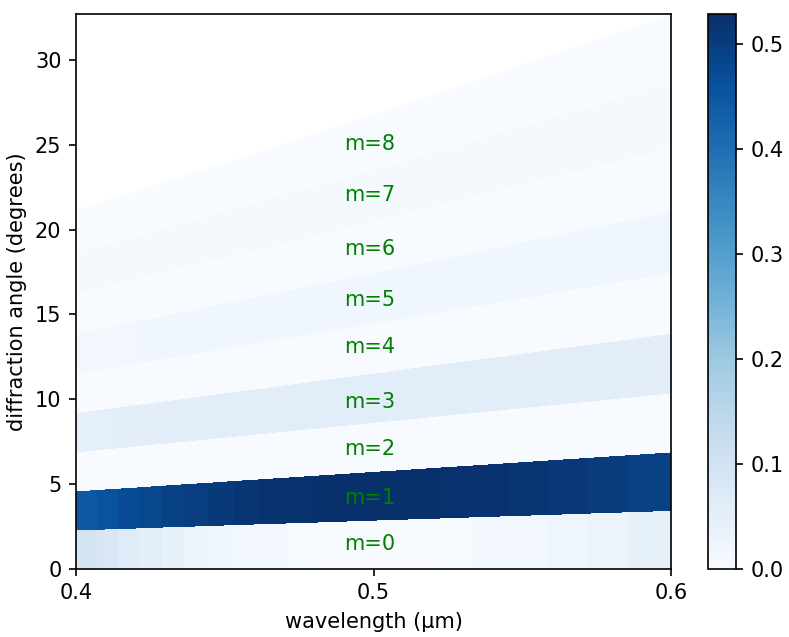
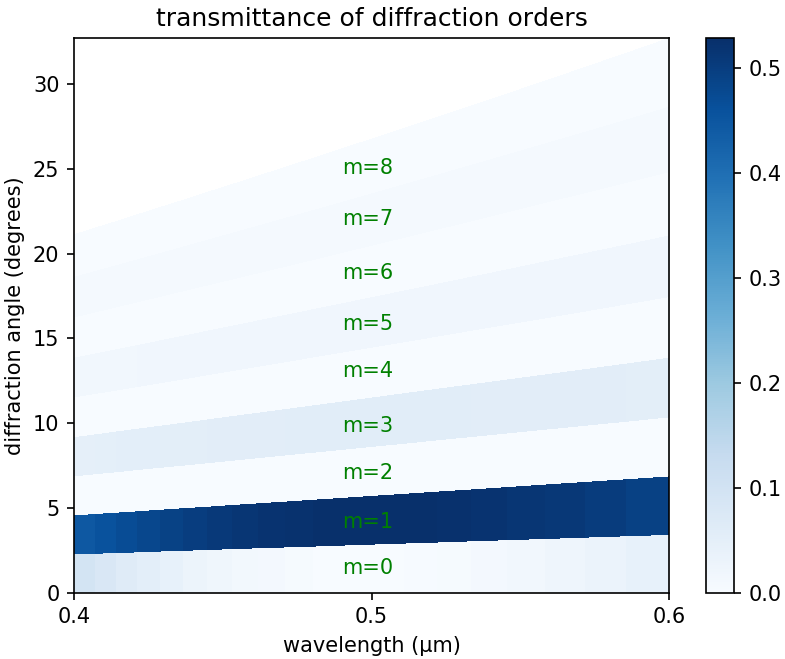
update docs

diff --git a/python/examples/mode-decomposition.py b/python/examples/mode-decomposition.py
@@ -16,14 +16,14 @@ def main(args):
     dair = 3.0
     dpml = 5.0
 
-    sx = dpml + Lw + Lt + Lw + dpml
-    sy = dpml + dair + w2 + dair + dpml
+    sx = dpml+Lw+Lt+Lw+dpml
+    sy = dpml+dair+w2+dair+dpml
     cell_size = mp.Vector3(sx,sy,0)
 
-    prism_x = sx + 1
-    half_w1 = 0.5 * w1
-    half_w2 = 0.5 * w2
-    half_Lt = 0.5 * Lt
+    prism_x = sx+1
+    half_w1 = 0.5*w1
+    half_w2 = 0.5*w2
+    half_Lt = 0.5*Lt
 
     if Lt > 0:
         vertices = [mp.Vector3(-prism_x, half_w1),
@@ -42,7 +42,7 @@ def main(args):
 
     geometry = [mp.Prism(vertices, height=mp.inf, material=Si)]
 
-    boundary_layers = [ mp.PML(dpml) ]
+    boundary_layers = [mp.PML(dpml)]
 
     # mode wavelength
     lcen = 6.67
@@ -50,12 +50,12 @@ def main(args):
     # mode frequency
     fcen = 1/lcen
 
-    sources = [ mp.EigenModeSource(src=mp.GaussianSource(fcen, fwidth=0.2*fcen),
-                                   component=mp.Ez,
-                                   size=mp.Vector3(0,sy-2*dpml,0),
-                                   center=mp.Vector3(-0.5*sx+dpml+0.2*Lw,0,0),
-                                   eig_match_freq=True,
-                                   eig_parity=mp.ODD_Z+mp.EVEN_Y) ]
+    sources = [mp.EigenModeSource(src=mp.GaussianSource(fcen, fwidth=0.2*fcen),
+                                  component=mp.Ez,
+                                  size=mp.Vector3(0,sy-2*dpml,0),
+                                  center=mp.Vector3(-0.5*sx+dpml+0.2*Lw,0,0),
+                                  eig_match_freq=True,
+                                  eig_parity=mp.ODD_Z+mp.EVEN_Y)]
 
     sim = mp.Simulation(resolution=resolution,
                         cell_size=cell_size,
@@ -64,17 +64,17 @@ def main(args):
                         sources=sources)
 
     xm = -0.5*sx+dpml+0.5*Lw  # x-coordinate of monitor
-    mode_monitor = sim.add_eigenmode(fcen, 0, 1, mp.FluxRegion(center=mp.Vector3(xm,0), size=mp.Vector3(0,sy-2*dpml)))
+    mode_monitor = sim.add_eigenmode(fcen, 0, 1, mp.FluxRegion(center=mp.Vector3(xm,0,0), size=mp.Vector3(0,sy-2*dpml,0)))
 
     sim.run(until_after_sources=mp.stop_when_fields_decayed(50, mp.Ez, mp.Vector3(xm,0,0), 1e-9))
 
-    coeffs, vgrp, kpoints = sim.get_eigenmode_coefficients(mode_monitor, [1])
+    coeffs, vgrp, kpoints = sim.get_eigenmode_coefficients(mode_monitor, [1], eig_parity=mp.ODD_Z+mp.EVEN_Y)
 
     print("mode:, {}, {:.8f}, {:.8f}".format(Lt,abs(coeffs[0,0,0])**2,abs(coeffs[0,0,1])**2))
 
 if __name__ == '__main__':
     parser = argparse.ArgumentParser()
     parser.add_argument('-Lt', type=float, default=3.0, help='taper length (default: 3.0)')
-    parser.add_argument('-res', type=int, default=30, help='resolution (default: 30)')
+    parser.add_argument('-res', type=int, default=60, help='resolution (default: 60)')
     args = parser.parse_args()
     main(args)

diff --git a/python/examples/binary_grating.py b/python/examples/binary_grating.py
@@ -16,7 +16,7 @@ sx = dpml+dsub+gh+dpad+dpml
 sy = gp
 
 cell_size = mp.Vector3(sx,sy,0)
-pml_layers = [ mp.PML(thickness=dpml,direction=mp.X) ]
+pml_layers = [mp.PML(thickness=dpml,direction=mp.X)]
 
 wvl_min = 0.4           # min wavelength
 wvl_max = 0.6           # max wavelength
@@ -26,7 +26,7 @@ fcen = 0.5*(fmin+fmax)  # center frequency
 df = fmax-fmin          # frequency width
 
 src_pos = -0.5*sx+dpml+0.5*dsub
-sources = [ mp.Source(mp.GaussianSource(fcen, fwidth=df), component=mp.Ez, center=mp.Vector3(src_pos,0,0), size=mp.Vector3(0,sy,0)) ]
+sources = [mp.Source(mp.GaussianSource(fcen, fwidth=df), component=mp.Ez, center=mp.Vector3(src_pos,0,0), size=mp.Vector3(0,sy,0))]
 
 k_point = mp.Vector3(0,0,0)
 
@@ -48,8 +48,8 @@ sim.reset_meep()
 
 glass = mp.Medium(index=1.5)
 
-geometry = [ mp.Block(material=glass, size=mp.Vector3(dpml+dsub,mp.inf,mp.inf), center=mp.Vector3(-0.5*sx+0.5*(dpml+dsub),0,0)),
-             mp.Block(material=glass, size=mp.Vector3(gh,gdc*gp,mp.inf), center=mp.Vector3(-0.5*sx+dpml+dsub+0.5*gh,0,0)) ]
+geometry = [mp.Block(material=glass, size=mp.Vector3(dpml+dsub,mp.inf,mp.inf), center=mp.Vector3(-0.5*sx+0.5*(dpml+dsub),0,0)),
+            mp.Block(material=glass, size=mp.Vector3(gh,gdc*gp,mp.inf), center=mp.Vector3(-0.5*sx+dpml+dsub+0.5*gh,0,0))]
 
 sim = mp.Simulation(resolution=resolution,
                     cell_size=cell_size,

diff --git a/doc/docs/Python_Tutorials/Mode_Decomposition.md b/doc/docs/Python_Tutorials/Mode_Decomposition.md
@@ -15,9 +15,9 @@ This example involves computing the reflectance &mdash; the fraction of the refl
 ![](../images/waveguide-taper.png)
 </center>
 
-The structure, which can be viewed as a [two-port network](https://en.wikipedia.org/wiki/Two-port_network), consists of a single-mode waveguide of width 1 μm (`w1`) coupled to a second waveguide of width 2 μm (`w2`) via a linearly-sloped taper (length `Lt`). The structure is homogeneous with ε=12 in vacuum. PML absorbing boundaries surround the computational cell. An eigenmode source with E<sub>z</sub> polarization is used to launch the fundamental mode at a wavelength of 6.67 μm. There is an eigenmode-expansion monitor placed at the midpoint of the first waveguide. This is a line monitor which extends beyond the waveguide in order to capture the entire mode profile including its evanescent tails. The Fourier-transformed fields along this line monitor are used to compute the basis coefficients of the harmonic modes which are computed separately via the eigenmode solver MPB. The technical details are described in [Mode Decomposition](../Mode_Decomposition). The squared magnitude of the mode coefficient is equivalent to the power in the given eigenmode. We could have also placed a line monitor in the second waveguide to compute the transmittance. The ratio of the complex mode coefficients can be used to compute the [S parameters](https://en.wikipedia.org/wiki/Scattering_parameters).
+The structure, which can be viewed as a [two-port network](https://en.wikipedia.org/wiki/Two-port_network), consists of a single-mode waveguide of width `w1` (1 μm)  coupled to a second waveguide of width `w2` (2 μm) via a linearly-sloped taper of length `Lt`. The structure is homogeneous with ε=12 in vacuum. PML absorbing boundaries surround the computational cell. An eigenmode source with E<sub>z</sub> polarization is used to launch the fundamental mode at a wavelength of 6.67 μm. There is an eigenmode-expansion monitor placed at the midpoint of the first waveguide. This is a line monitor which extends beyond the waveguide in order to capture the entire mode profile including its evanescent tails. The Fourier-transformed fields along this line monitor are used to compute the basis coefficients of the harmonic modes which are computed separately via the eigenmode solver MPB. The technical details are described in [Mode Decomposition](../Mode_Decomposition). The squared magnitude of the mode coefficient is equivalent to the power in the given eigenmode. We could have also placed a line monitor in the second waveguide to compute the transmittance. The ratio of the complex mode coefficients can be used to compute the [S parameters](https://en.wikipedia.org/wiki/Scattering_parameters); in this example, we compute |S<sub>11</sub>|<sup>2</sup>.
 
-Note that even though the structure has mirror symmetry in the $y$ direction, we cannot exploit this feature to reduce the computation size by a factor of two as symmetries are not yet supported for the mode-decomposition feature. For comparison, another approach for computing the reflectance involves the `dft_flux` which is demonstrated in [Tutorial/Basics](Basics/#angular-reflectance-spectrum-of-a-planar-interface).
+Note that even though the structure has mirror symmetry in the $y$ direction, we cannot exploit this feature to reduce the computation size by a factor of two as symmetries are not yet supported for the mode-decomposition feature. For comparison, another approach for computing the reflectance involves the [flux](../Python_User_Interface/#flux-spectra) which is demonstrated in [Tutorial/Basics](Basics/#angular-reflectance-spectrum-of-a-planar-interface).
 
 At the end of the simulation, the squared magnitude of the mode coefficients for the forward- and backward-propagating fundamental mode along with the taper length are displayed. The simulation script is shown below and in [mode-decomposition.py](https://github.com/stevengj/meep/blob/master/python/examples/mode-decomposition.py).
 
@@ -44,10 +44,10 @@ def main(args):
     sy = dpml+dair+w2+dair+dpml
     cell_size = mp.Vector3(sx,sy,0)
 
-    prism_x = sx + 1
-    half_w1 = 0.5 * w1
-    half_w2 = 0.5 * w2
-    half_Lt = 0.5 * Lt
+    prism_x = sx+1
+    half_w1 = 0.5*w1
+    half_w2 = 0.5*w2
+    half_Lt = 0.5*Lt
 
     if Lt > 0:
         vertices = [mp.Vector3(-prism_x, half_w1),
@@ -66,7 +66,7 @@ def main(args):
 
     geometry = [mp.Prism(vertices, height=mp.inf, material=Si)]
 
-    boundary_layers = [ mp.PML(dpml) ]
+    boundary_layers = [mp.PML(dpml)]
 
     # mode wavelength
     lcen = 6.67
@@ -74,12 +74,12 @@ def main(args):
     # mode frequency
     fcen = 1/lcen
     
-    sources = [ mp.EigenModeSource(src=mp.GaussianSource(fcen, fwidth=0.2*fcen),
-                                   component=mp.Ez,
-                                   size=mp.Vector3(0,sy-2*dpml,0),
-                                   center=mp.Vector3(-0.5*sx+dpml+0.2*Lw,0,0),
-                                   eig_match_freq=True,
-                                   eig_parity=mp.ODD_Z+mp.EVEN_Y) ]
+    sources = [mp.EigenModeSource(src=mp.GaussianSource(fcen, fwidth=0.2*fcen),
+                                  component=mp.Ez,
+                                  size=mp.Vector3(0,sy-2*dpml,0),
+                                  center=mp.Vector3(-0.5*sx+dpml+0.2*Lw,0,0),
+                                  eig_match_freq=True,
+                                  eig_parity=mp.ODD_Z+mp.EVEN_Y)]
     
     sim = mp.Simulation(resolution=resolution,
                         cell_size=cell_size,
@@ -88,31 +88,31 @@ def main(args):
                         sources=sources)
 
     xm = -0.5*sx+dpml+0.5*Lw  # x-coordinate of monitor
-    mode_monitor = sim.add_eigenmode(fcen, 0, 1, mp.FluxRegion(center=mp.Vector3(xm,0), size=mp.Vector3(0,sy-2*dpml)))
+    mode_monitor = sim.add_eigenmode(fcen, 0, 1, mp.FluxRegion(center=mp.Vector3(xm,0,0), size=mp.Vector3(0,sy-2*dpml,0)))
     
     sim.run(until_after_sources=mp.stop_when_fields_decayed(50, mp.Ez, mp.Vector3(xm,0,0), 1e-9))
 
-    coeffs, vgrp, kpoints = sim.get_eigenmode_coefficients(mode_monitor, [1])    
+    coeffs, vgrp, kpoints = sim.get_eigenmode_coefficients(mode_monitor, [1], eig_parity=mp.ODD_Z+mp.EVEN_Y)    
     
     print("mode:, {}, {:.8f}, {:.8f}".format(Lt,abs(coeffs[0,0,0])**2,abs(coeffs[0,0,1])**2))
     
 if __name__ == '__main__':
     parser = argparse.ArgumentParser()
     parser.add_argument('-Lt', type=float, default=3.0, help='taper length (default: 3.0)')
-    parser.add_argument('-res', type=int, default=50, help='resolution (default: 50)')
+    parser.add_argument('-res', type=int, default=60, help='resolution (default: 60)')
     args = parser.parse_args()
     main(args)
 ```
 
-To investigate the scaling, we compute the reflectance for a range of taper lengths on a logarithmic scale: 1, 2, 4, 8, 16, 32, and 64 μm. A quadratic scaling of the reflectance with the taper length will appear as a straight line on a log-log plot. In order to obtain the incident power, we need a separate simulation with no waveguide taper and involving just the first waveguide. This is done by using a taper length of 0. We will use a parallel simulation with two processors to speed up the calculation. The bash script is shown below.
+To investigate the scaling, we compute the reflectance for five different taper lengths: 1, 2, 4, 8, and 16 μm. A quadratic scaling of the reflectance with the taper length appears as a straight line on a log-log plot. In order to obtain the incident power, we need a separate simulation with just the first waveguide. This is done by using a taper length of 0. We will use a parallel simulation with three processors to speed up the calculation. The bash script is shown below.
 
 ```sh
 #!/bin/bash
 
-mpirun -np 2 python -u mode-decomposition.py -Lt 0 |tee taper_data.out;
+mpirun -np 3 python -u mode-decomposition.py -Lt 0 |tee taper_data.out;
 
-for i in `seq 0 6`; do
-    mpirun -np 2 python -u mode-decomposition.py -Lt $((2**${i})) |tee -a taper_data.out;
+for i in `seq 0 4`; do
+    mpirun -np 3 python -u mode-decomposition.py -Lt $((2**${i})) |tee -a taper_data.out;
 done
 
 grep mode: taper_data.out |cut -d , -f2- > taper_data.dat
@@ -130,10 +130,10 @@ Rmeep = f[1:,2]/f[0,1]
 
 plt.figure(dpi=150)
 plt.loglog(Lt,Rmeep,'bo-',label='meep')
-plt.loglog(Lt,0.01/Lt**2,'k-',label=r'quadratic reference (1/Lt$^2$)')
+plt.loglog(Lt,0.005/Lt**2,'k-',label=r'quadratic reference (1/Lt$^2$)')
 plt.legend(loc='upper right')
 plt.xlabel('taper length Lt (μm)')
-plt.ylabel('reflectance')
+plt.ylabel(r'reflectance, $|S_{11}|^2$')
 plt.show()
 ```
 
@@ -169,7 +169,7 @@ sx = dpml+dsub+gh+dpad+dpml
 sy = gp
 
 cell_size = mp.Vector3(sx,sy,0)
-pml_layers = [ mp.PML(thickness=dpml,direction=mp.X) ]
+pml_layers = [mp.PML(thickness=dpml,direction=mp.X)]
 
 wvl_min = 0.4           # min wavelength
 wvl_max = 0.6           # max wavelength
@@ -179,7 +179,7 @@ fcen = 0.5*(fmin+fmax)  # center frequency
 df = fmax-fmin          # frequency width
 
 src_pos = -0.5*sx+dpml+0.5*dsub
-sources = [ mp.Source(mp.GaussianSource(fcen, fwidth=df), component=mp.Ez, center=mp.Vector3(src_pos,0,0), size=mp.Vector3(0,sy,0)) ]
+sources = [mp.Source(mp.GaussianSource(fcen, fwidth=df), component=mp.Ez, center=mp.Vector3(src_pos,0,0), size=mp.Vector3(0,sy,0))]
 
 k_point = mp.Vector3(0,0,0)
 
@@ -201,8 +201,8 @@ sim.reset_meep()
 
 glass = mp.Medium(index=1.5)
 
-geometry = [ mp.Block(material=glass, size=mp.Vector3(dpml+dsub,mp.inf,mp.inf), center=mp.Vector3(-0.5*sx+0.5*(dpml+dsub),0,0)),
-             mp.Block(material=glass, size=mp.Vector3(gh,gdc*gp,mp.inf), center=mp.Vector3(-0.5*sx+dpml+dsub+0.5*gh,0,0)) ]
+geometry = [mp.Block(material=glass, size=mp.Vector3(dpml+dsub,mp.inf,mp.inf), center=mp.Vector3(-0.5*sx+0.5*(dpml+dsub),0,0)),
+            mp.Block(material=glass, size=mp.Vector3(gh,gdc*gp,mp.inf), center=mp.Vector3(-0.5*sx+dpml+dsub+0.5*gh,0,0))]
 
 sim = mp.Simulation(resolution=resolution,
                     cell_size=cell_size,
@@ -269,17 +269,18 @@ plt.xlabel("wavelength (μm)")
 plt.ylabel("diffraction angle (degrees)")
 plt.xticks([t for t in np.arange(0.4,0.7,0.1)])
 plt.yticks([t for t in range(0,35,5)])
+plt.title("transmittance of diffraction orders")
 cbar = plt.colorbar()
 cbar.set_ticks([t for t in np.arange(0,0.6,0.1)])
 cbar.set_ticklabels(["{:.1f}".format(t) for t in np.arange(0,0.6,0.1)])
 plt.show()
 ```
 
-Each diffraction order corresponds to a single angle. In the figure below, this angle is represented by the *lower* boundary of each labeled region. For example, the m=0 order has a diffraction angle of 0 degrees at all wavelengths. The representation of the diffraction orders as finite angular regions is an artifact of matplotlib's [pcolormesh](https://matplotlib.org/api/_as_gen/matplotlib.pyplot.pcolormesh.html) routine. Note that only the non-negative diffraction orders are shown as these are equivalent to the negative orders due to the symmetry of the source and the structure.
+Each diffraction order corresponds to a single angle. In the figure below, this angle is represented by the *lower* boundary of each labeled region. For example, the m=0 order has a diffraction angle of 0 degrees at all wavelengths. The representation of the diffraction orders as finite angular regions is an artifact of matplotlib's [pcolormesh](https://matplotlib.org/api/_as_gen/matplotlib.pyplot.pcolormesh.html) routine. Note that only the positive diffraction orders are shown as these are equivalent to the negative orders due to the symmetry of the source and the structure.
 
 The transmittance of each diffraction order should ideally be a constant. The slight wavelength dependence shown in the figure is a numerical artifact which can be mitigated by (1) increasing the resolution or (2) time-stepping for a longer duration to ensure that the fields have sufficiently decayed away.
 
-The diffraction orders/modes are a finite set of propagating planewaves. The wavevector k<sub>x</sub> of these modes can be computed analytically: for a frequency of ω (in c=1 units), these propagating modes are the *real* solutions of sqrt(ω²n² - (k<sub>y</sub>+2πm/Λ)²) where m is the diffraction order (an integer) and Λ is the periodicity of the grating. In this example, n=1, k<sub>y</sub>=0, and Λ=10 μm. Thus, as an example, at a wavelength of 0.5 μm there are 20 diffraction orders. The wavevector k<sub>x</sub> is used to compute the angle of the diffraction order as cos<sup>-1</sup>(k<sub>x</sub>/ω). Evanescent modes, those with an *imaginary* k<sub>x</sub>, exist but carry no power. Note that currently Meep does not compute the number of propagating modes for you. If the mode number passed to `get_eigenmode_coefficients` is larger than the number of propagating modes at a given frequency/wavelength, MPB's Newton solver will fail to converge and will return zero for the mode coefficient. It is therefore a good idea to know beforehand the number of propagating modes.
+The diffraction orders/modes are a finite set of propagating planewaves. The wavevector k<sub>x</sub> of these modes can be computed analytically: for a frequency of ω (in c=1 units), these propagating modes are the *real* solutions of sqrt(ω²n² - (k<sub>y</sub>+2πm/Λ)²) where m is the diffraction order (an integer) and Λ is the periodicity of the grating. In this example, n=1, k<sub>y</sub>=0, and Λ=10 μm. Thus, as an example, at a wavelength of 0.5 μm there are 20 diffraction orders (though we only computed the first ten). The wavevector k<sub>x</sub> is used to compute the angle of the diffraction order as cos<sup>-1</sup>(k<sub>x</sub>/ω). Evanescent modes, those with an *imaginary* k<sub>x</sub>, exist for |m|>20 but these modes carry no power. Note that currently Meep does not compute the number of propagating modes for you. If the mode number passed to `get_eigenmode_coefficients` is larger than the number of propagating modes at a given frequency/wavelength, MPB's Newton solver will fail to converge and will return zero for the mode coefficient. It is therefore a good idea to know beforehand the number of propagating modes.
 
 <center>
 ![](../images/grating_diffraction_spectra.png)

diff --git a/doc/docs/Python_Tutorials/Basics.md b/doc/docs/Python_Tutorials/Basics.md
@@ -2,7 +2,7 @@
 # Python Tutorial
 ---
 
-We'll go through several examples using the Python interface that demonstrate the process of computing fields, transmittance/reflectance spectra, and resonant modes. All of the examples here are 1d or 2d calculations, simply because they are quicker than 3d and they illustrate most of the essential features. For more advanced functionality involving 3d computations, see the [Simpetus projects page](http://www.simpetus.com/projects.html).
+We'll go through several examples using the Python interface that demonstrate the process of computing fields, transmittance/reflectance spectra, and resonant modes. All of the examples here are 1d or 2d calculations, simply because they are quicker than 3d and they illustrate most of the essential features. For more advanced functionality involving 3d computations and technology applications, see the [Simpetus projects page](http://www.simpetus.com/projects.html).
 
 [TOC]
 
@@ -59,7 +59,7 @@ sources = [mp.Source(mp.ContinuousSource(frequency=0.15),
                      center=mp.Vector3(-7,0))]
 ```
 
-We gave the source a frequency of 0.15, and specified a [`ContinuousSource`](../Python_User_Interface/#continuoussource) which is just a fixed-frequency sinusoid $\exp(-i \omega t)$ that by default is turned on at $t=0$. Recall that, in [Meep units](../Introduction.md#units-in-meep), frequency is specified in units of 2πc, which is equivalent to the inverse of the vacuum wavelength. Thus, 0.15 corresponds to a vacuum wavelength of about 1/0.15=6.67 μm, or a wavelength of about 2 μm in the ε=12 material &mdash; thus, our waveguide is half a wavelength wide, which should hopefully make it single mode. In fact, the cutoff for single-mode behavior in this waveguide is analytically solvable, and corresponds to a frequency of 1/2√11 or roughly 0.15076. Note also that to specify a $J_z$, we specify a component `Ez` (e.g., if we wanted a magnetic current, we would specify `Hx`, `Hy`, or `Hz`). The current is located at (-7,0), which is 1 μm to the right of the left edge of the cell &mdash; we always want to leave a little space between sources and the cell boundaries, to keep the boundary conditions from interfering with them.
+We gave the source a frequency of 0.15, and specified a [`ContinuousSource`](../Python_User_Interface/#continuoussource) which is just a fixed-frequency sinusoid $\exp(-i \omega t)$ that by default is turned on at $t=0$. Recall that, in [Meep units](../Introduction.md#units-in-meep), frequency is specified in units of 2πc, which is equivalent to the inverse of the vacuum wavelength. Thus, 0.15 corresponds to a vacuum wavelength of about 1/0.15=6.67 μm, or a wavelength of about 2 μm in the ε=12 material &mdash; thus, our waveguide is half a wavelength wide, which should hopefully make it single mode. In fact, the cutoff for single-mode behavior in this waveguide is analytically solvable, and corresponds to a frequency of 1/2√11 or roughly 0.15076. Note also that to specify a J<sub>z</sub>, we specify a component `Ez` (e.g., if we wanted a magnetic current, we would specify `Hx`, `Hy`, or `Hz`). The current is located at (-7,0), which is 1 μm to the right of the left edge of the cell &mdash; we always want to leave a little space between sources and the cell boundaries, to keep the boundary conditions from interfering with them.
 
 As for boundary conditions, we want to add absorbing boundaries around our cell. Absorbing boundaries in Meep are handled by [perfectly matched layers](../Perfectly_Matched_Layer.md) (PML) &mdash;  which aren't really a boundary condition at all, but rather a fictitious absorbing material added around the edges of the cell. To add an absorbing layer of thickness 1 μm around all sides of the cell, we do:
 
@@ -342,7 +342,7 @@ sim.run(until_after_sources=mp.stop_when_fields_decayed(50,mp.Ez,pt,1e-3))
 straight_refl_data = sim.get_flux_data(refl)
 ```
 
-We need to keep running after the source has turned off because we must give the pulse time to propagate completely across the cell. Moreover, the time required is a bit tricky to predict when you have complex structures, because there might be resonant phenomena that allow the source to bounce around for a long time. Therefore, it is convenient to specify the run time in a different way: instead of using a fixed time, we require that $|E_z|^2$ at the end of the waveguide must have decayed by a given amount (1/1000) from its peak value.
+We need to keep running after the source has turned off because we must give the pulse time to propagate completely across the cell. Moreover, the time required is a bit tricky to predict when you have complex structures, because there might be resonant phenomena that allow the source to bounce around for a long time. Therefore, it is convenient to specify the run time in a different way: instead of using a fixed time, we require that |E<sub>z</sub>|<sup>2</sup> at the end of the waveguide must have decayed by a given amount (1/1000) from its peak value.
 
 The `stop_when_fields_decayed` routine takes four arguments: `dT`, `component`, `pt`, and `decay_by`. What it does is, after the sources have turned off, it keeps running for an additional `dT` time units every time the given |component|<sup>2</sup> at the given point has not decayed by at least `decay_by` from its peak value for all times within the previous `dT`. In this case, `dT=50`, the component is E<sub>z</sub>, the point is at the center of the flux plane at the end of the waveguide, and `decay_by=0.001`. So, it keeps running for an additional 50 time units until the square amplitude has decayed by 1/1000 from its peak. This should be sufficient to ensure that the Fourier transforms have converged.
 
@@ -734,4 +734,4 @@ Everything else about your simulation is the same: you can still get the fields 
 
 In general, the symmetry of the sources may require some phase. For example, if our source was in the $y$ direction instead of the $z$ direction, then the source would be *odd* under mirror flips through the $x$ axis. We would specify this by `mp.Mirror(mp.Y, phase=-1)`. See [User Interface](../Python_User_Interface/#symmetry) for more symmetry possibilities.
 
-In this case, we actually have a lot more symmetry that we could potentially exploit, if we are willing to restrict the symmetry of our source/fields to a particular angular momentum (i.e. angular dependence $e^{im\phi}$). See also [Ring Resonator in Cylindrical Coordinates](Ring_Resonator_in_Cylindrical_Coordinates.md) for how to solve for modes of this cylindrical geometry much more efficiently.
+In this case, we actually have a lot more symmetry that we could potentially exploit, if we are willing to restrict the symmetry of our source/fields to a particular angular momentum (i.e. angular dependence $e^{im\phi}$). See also [Tutorial/Ring Resonator in Cylindrical Coordinates](Ring_Resonator_in_Cylindrical_Coordinates.md) for how to solve for modes of this cylindrical geometry much more efficiently.

diff --git a/doc/docs/Scheme_Tutorials/Basics.md b/doc/docs/Scheme_Tutorials/Basics.md
@@ -2,7 +2,7 @@
 # Scheme Tutorial
 ---
 
-We'll go through several examples using the Python interface that demonstrate the process of computing fields, transmittance/reflectance spectra, and resonant modes. All of the examples here are 1d or 2d calculations, simply because they are quicker than 3d and they illustrate most of the essential features. For more advanced functionality involving 3d computations, see the [Simpetus projects page](http://www.simpetus.com/projects_scheme.html).
+We'll go through several examples using the Python interface that demonstrate the process of computing fields, transmittance/reflectance spectra, and resonant modes. All of the examples here are 1d or 2d calculations, simply because they are quicker than 3d and they illustrate most of the essential features. For more advanced functionality involving 3d computations and technology applications, see the [Simpetus projects page](http://www.simpetus.com/projects_scheme.html).
 
 In order to convert the [HDF5](https://en.wikipedia.org/wiki/HDF5) output files of Meep into images of the fields, this tutorial uses the [h5utils](https://github.com/stevengj/h5utils/blob/master/README.md) package. You could also use any other package (i.e., [Octave](https://www.gnu.org/software/octave/) or [Matlab](http://www.mathworks.com/access/helpdesk/help/techdoc/ref/hdf5read.html)) that supports reading HDF5 files.
 
@@ -68,7 +68,7 @@ We have the structure and need to specify the current sources using the [`source
                  (center -7 0))))
 ```
 
-We gave the source a frequency of 0.15, and specified a `continuous-src` which is just a fixed-frequency sinusoid $\exp(-i \omega t)$ that by default is turned on at $t$=0. Recall that, in [Meep units](../Introduction.md#units-in-meep), frequency is specified in units of 2πc, which is equivalent to the inverse of the vacuum wavelength. Thus, 0.15 corresponds to a vacuum wavelength of about 1/0.15=6.67 μm, or a wavelength of about 2 μm in the ε=12 material &mdash; thus, our waveguide is half a wavelength wide, which should hopefully make it single mode. In fact, the cutoff for single-mode behavior in this waveguide is analytically solvable, and corresponds to a frequency of 1/2√11 or roughly 0.15076. Note also that to specify a $J_z$, we specify a component $Ez$ (e.g. if we wanted a magnetic current, we would specify `Hx`, `Hy`, or `Hz`). The current is located at (-7,0), which is 1 μm to the right of the left edge of the cell &mdash; we always want to leave a little space between sources and the cell boundaries, to keep the boundary conditions from interfering with them.
+We gave the source a frequency of 0.15, and specified a `continuous-src` which is just a fixed-frequency sinusoid $\exp(-i \omega t)$ that by default is turned on at $t$=0. Recall that, in [Meep units](../Introduction.md#units-in-meep), frequency is specified in units of 2πc, which is equivalent to the inverse of the vacuum wavelength. Thus, 0.15 corresponds to a vacuum wavelength of about 1/0.15=6.67 μm, or a wavelength of about 2 μm in the ε=12 material &mdash; thus, our waveguide is half a wavelength wide, which should hopefully make it single mode. In fact, the cutoff for single-mode behavior in this waveguide is analytically solvable, and corresponds to a frequency of 1/2√11 or roughly 0.15076. Note also that to specify a J<sub>z</sub>, we specify a component $Ez$ (e.g. if we wanted a magnetic current, we would specify `Hx`, `Hy`, or `Hz`). The current is located at (-7,0), which is 1 μm to the right of the left edge of the cell &mdash; we always want to leave a little space between sources and the cell boundaries, to keep the boundary conditions from interfering with them.
 
 As for boundary conditions, we want to add absorbing boundaries around our cell. Absorbing boundaries in Meep are handled by [perfectly matched layers](../Perfectly_Matched_Layer.md) (PML) &mdash; which aren't really a boundary condition at all, but rather a fictitious absorbing material added around the edges of the cell. To add an absorbing layer of thickness 1 μm around all sides of the cell, we do:
 
@@ -338,7 +338,7 @@ As described in [Introduction](../Introduction.md#transmittancereflectance-spect
 
 This uses a file called `refl-flux.h5`, or actually `bend-flux-refl-flux.h5` (the script file name is used as a prefix) to store/load the Fourier transformed fields in the flux planes. The `(run-sources+ 500)` runs the simulation until the Gaussian source has turned off (which is done automatically once it has decayed for a few standard deviations), plus an additional 500 time units.
 
-Why do we keep running after the source has turned off? Because we must give the pulse time to propagate completely across the cell. Moreover, the time required is a bit tricky to predict when you have complex structures, because there might be resonant phenomena that allow the source to bounce around for a long time. Therefore, it is convenient to specify the run time in a different way: instead of using a fixed time, we require that the $|E_z|^2$ at the end of the waveguide must have decayed by a given amount (e.g. 1/1000) from its peak value. We can do this via:
+Why do we keep running after the source has turned off? Because we must give the pulse time to propagate completely across the cell. Moreover, the time required is a bit tricky to predict when you have complex structures, because there might be resonant phenomena that allow the source to bounce around for a long time. Therefore, it is convenient to specify the run time in a different way: instead of using a fixed time, we require that the |E<sub>z</sub>|<sup>2</sup> at the end of the waveguide must have decayed by a given amount (e.g. 1/1000) from its peak value. We can do this via:
 
 ```scm
 (run-sources+ 

diff --git a/doc/docs/Python_User_Interface.md b/doc/docs/Python_User_Interface.md
@@ -606,7 +606,7 @@ The main reason to use `Absorber` is if you have **a case in which PML fails:**
 
 ### Source
 
-The `Source` class is used to specify the current sources via the `Siumulation.sources` attribute. Note that all sources in Meep are separable in time and space, i.e. of the form $\mathbf{J}(\mathbf{x},t) = \mathbf{A}(\mathbf{x}) \cdot f(t)$ for some functions $\mathbf{A}$ and $f$. Non-separable sources can be simulated, however, by modifying the sources after each time step. When real fields are being used (which is the default in many cases; see `Simulation.force_complex_fields`), only the real part of the current source is used.
+The `Source` class is used to specify the current sources via the `Simulation.sources` attribute. Note that all sources in Meep are separable in time and space, i.e. of the form $\mathbf{J}(\mathbf{x},t) = \mathbf{A}(\mathbf{x}) \cdot f(t)$ for some functions $\mathbf{A}$ and $f$. Non-separable sources can be simulated, however, by modifying the sources after each time step. When real fields are being used (which is the default in many cases; see `Simulation.force_complex_fields`), only the real part of the current source is used.
 
 **Important note**: These are *current* sources (**J** terms in Maxwell's equations), even though they are labelled by electric/magnetic field components. They do *not* specify a particular electric/magnetic field which would be what is called a "hard" source in the FDTD literature. There is no fixed relationship between the current source and the resulting field amplitudes; it depends on the surrounding geometry, as described in the [FAQ](FAQ#how-does-the-current-amplitude-relate-to-the-resulting-field-amplitude) and in Section 4.4 ("Currents and Fields: The Local Density of States") in [Chapter 4](http://arxiv.org/abs/arXiv:1301.5366) ("Electromagnetic Wave Source Conditions") of the book [Advances in FDTD Computational Electrodynamics: Photonics and Nanotechnology](https://www.amazon.com/Advances-FDTD-Computational-Electrodynamics-Nanotechnology/dp/1608071707).
 

diff --git a/doc/docs/FAQ.md b/doc/docs/FAQ.md
@@ -98,7 +98,7 @@ An official Python interface was released in January 2018 with version 1.4. An u
 
 ### What are the different ways to define the material geometry?
 
-There are currently three ways to define the material geometry: (1) the [`GeometricObject`](Python_User_Interface/#geometricobject) (Python) or [`geometric-object`](Scheme_User_Interface/#geometric-object) (Scheme) class used to specify a collection of shapes including spheres, cylinders, cones, blocks, and ellipsoids, (2) `material_function` (Python) or `material-function` (Scheme) used to define an arbitrary function, or (3) importing the scalar, real-valued, frequency-independent permittivity from an HDF5 file via the `epsilon_input_file` (Python) or `epsilon-input-file` (Scheme) input parameter. Combinations of (1) and (2) are allowed but not (3).
+There are currently three ways to define the material geometry: (1) the [`GeometricObject`](Python_User_Interface/#geometricobject) (Python) or [`geometric-object`](Scheme_User_Interface/#geometric-object) (Scheme) class used to specify a collection of shapes including prisms, spheres, cylinders, cones, blocks, and ellipsoids, (2) `material_function` (Python) or `material-function` (Scheme) used to define an arbitrary function, or (3) importing the scalar, real-valued, frequency-independent permittivity from an HDF5 file via the `epsilon_input_file` (Python) or `epsilon-input-file` (Scheme) input parameter. Combinations of (1) and (2) are allowed but not (3).
 
 ### Is there a materials library?
 
